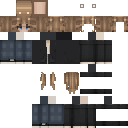
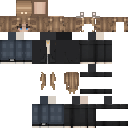
Attach ears to the hair as closed corner caps instead of floating plates
Claude-Session: https://claude.ai/code/session_01E8KVnok6Fx7faRrVpDBB9K

diff --git a/minecraft-skin/make_skin.py b/minecraft-skin/make_skin.py
@@ -50,28 +50,30 @@ def build(slim=True):
     FACE = ["........", "........", "........", "........", "..S..S..", ".SSkkSS.", ".kkkkkk.", "..kkkk.."]
     put(8, 8, F.rect(240, 180, 710, 650, 16, 16))                         # base face
     put(40, 8, F.rect(210, 150, 739, 679, 16, 16),
-        keep=lambda i, j, c: FACE[j//2][i//2] == '.' and is_hair(c),
+        keep=lambda i, j, c: FACE[j//2][i//2] == '.' and is_hair(c) and not (j == 0 and 4 <= i <= 11),
         fn=lambda i, j, c: (112, 88, 66) if (j < 6 and c[0] < 70) else c)  # fringe / side locks
     back = B.rect(253, 150, 755, 665, 16, 16)
-    put(24, 8, back); put(56, 8, back, keep=lambda i, j, c: j < 6 or i < 4 or i > 11)
+    put(24, 8, back); put(56, 8, back, keep=lambda i, j, c: j > 0 and (j < 6 or i < 4 or i > 11))
     side = M.quad((130, 95), (355, 150), (355, 470), (135, 415), 16, 16)
     def rowmed(g, j):
         v = sorted(c for (i, jj), c in g.items() if jj == j and c[0] >= 85 and c[0] > c[2] + 8)
         return v[len(v)//2] if v else (121, 95, 72)
     side = {(i, j): (c if (c[0] >= 85 and c[0] > c[2] + 8) else rowmed(side, j)) for (i, j), c in side.items()}
-    put(0, 8, side); put(32, 8, side); put(16, 8, side, flip=True); put(48, 8, side, flip=True)
+    ear = lambda i, j, c: j > 0 or i >= 12                               # top edge stays only where the ear is
+    put(0, 8, side); put(32, 8, side, keep=ear); put(16, 8, side, flip=True); put(48, 8, side, keep=ear, flip=True)
     TONE = {'D': (88, 68, 52), 'M': (121, 95, 72), 'm': (133, 105, 80), 'L': (144, 115, 88),
             'H': (168, 141, 113), 'W': (200, 180, 155)}
     ROWS = "DMMmmLLHHLLmLmMM"                                              # back -> front
     def top_c(i, j):
         t = ROWS[j]
         if i in (0, 15): t = {'H': 'L', 'L': 'm', 'm': 'M', 'M': 'D', 'D': 'D'}[t]
-        if j in (12, 13) and i in (3, 4, 11, 12): t = 'W'
+        if j in (12, 13) and i in (5, 6, 9, 10): t = 'W'
         return TONE[t]
     top = {(i, j): top_c(i, j) for i in range(16) for j in range(16)}
     put(8, 0, top)
-    put(40, 0, top, keep=lambda i, j, c: i//2 in (0, 1, 6, 7) and j//2 in (2, 3),
-        fn=lambda i, j, c: TONE['H'] if j == 7 else TONE['L'])            # ear slabs
+    # ears: corner caps of the hat layer, closed by the front and side hair walls
+    put(40, 0, top, keep=lambda i, j, c: i//2 in (0, 1, 6, 7) and j//2 in (6, 7),
+        fn=lambda i, j, c: TONE['H'] if j in (13, 14) and i in (1, 2, 13, 14) else TONE['L'])
     skin = F.rect(300, 600, 650, 640, 16, 16)
     put(16, 0, skin, fn=lambda i, j, c: c if 2 <= i <= 13 and 2 <= j <= 13 else (95, 74, 58))
 
@@ -134,11 +136,13 @@ def v2(img):
         for j in range(17, 24): blend(64+i, 72+j, (230, 194, 134), .22)
     for (i, j) in ((6, 1), (9, 1), (7, 2), (8, 2)): px[40+i, 40+j] = (212, 176, 110, 255)   # necklace
     for i in (7, 8): px[40+i, 40+3] = (236, 186, 128, 255)                                   # heart pendant
-    for ex in (0, 12):                                                             # cat ears: grey fur, light inside
+    GREY, PINK = (146, 136, 128, 255), (244, 228, 226, 255)                        # cat ears: grey fur, light inside
+    for ex in (0, 12):
         for i in range(4):
-            for j in range(4, 8):
-                inner = i in (1, 2) and j in (5, 6)
-                px[80+ex+i, j] = (244, 232, 228, 255) if inner else (146, 136, 128, 255)
+            for j in range(12, 16): px[80+ex+i, j] = PINK if (i in (1, 2) and j in (13, 14)) else GREY
+            for j in (0, 1): px[80+ex+i, 16+j] = PINK if (i in (1, 2) and j == 1) else GREY
+    for i in range(4):
+        for j in (0, 1): px[64+12+i, 16+j] = GREY; px[96+i, 16+j] = GREY
     return img
 
 if __name__ == "__main__":
